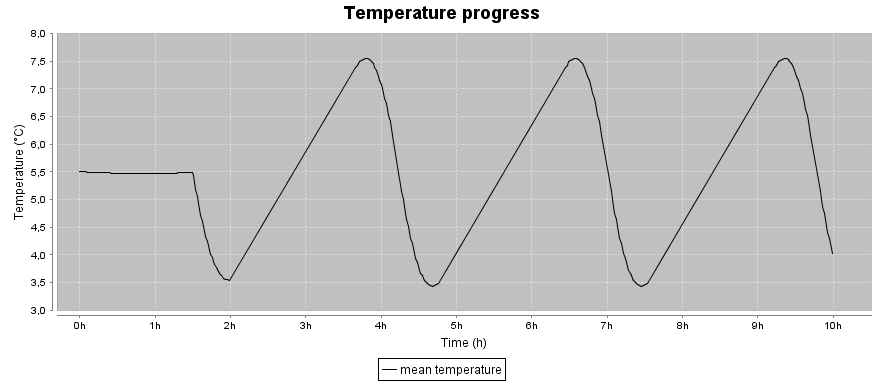
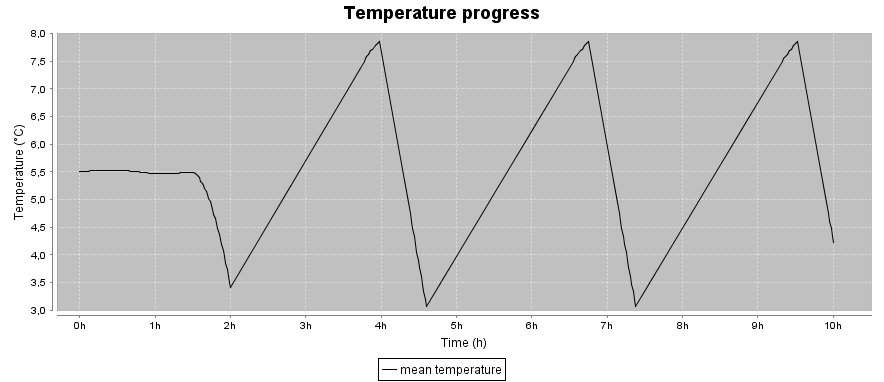
ergebnisse nach korrigiertem TLR
git-svn-id: file:///home/chh/dump/svn/chh/Fridge@147 f626433a-2895-11dd-a5f2-844af5208ae5

diff --git a/src/de/uniol/ui/desync/Configuration.java b/src/de/uniol/ui/desync/Configuration.java
@@ -55,6 +55,6 @@ public class Configuration {
 	
 	/* Strategy params: timed load reduction */
 	public double timed_t_notify = 90.0;
-	public double timed_tau_activ = 10.0;
-	public double timed_tau_reduce = 30.0;
+	public double timed_tau_activ = 30.0;
+	public double timed_tau_reduce = 120.0;
 }
